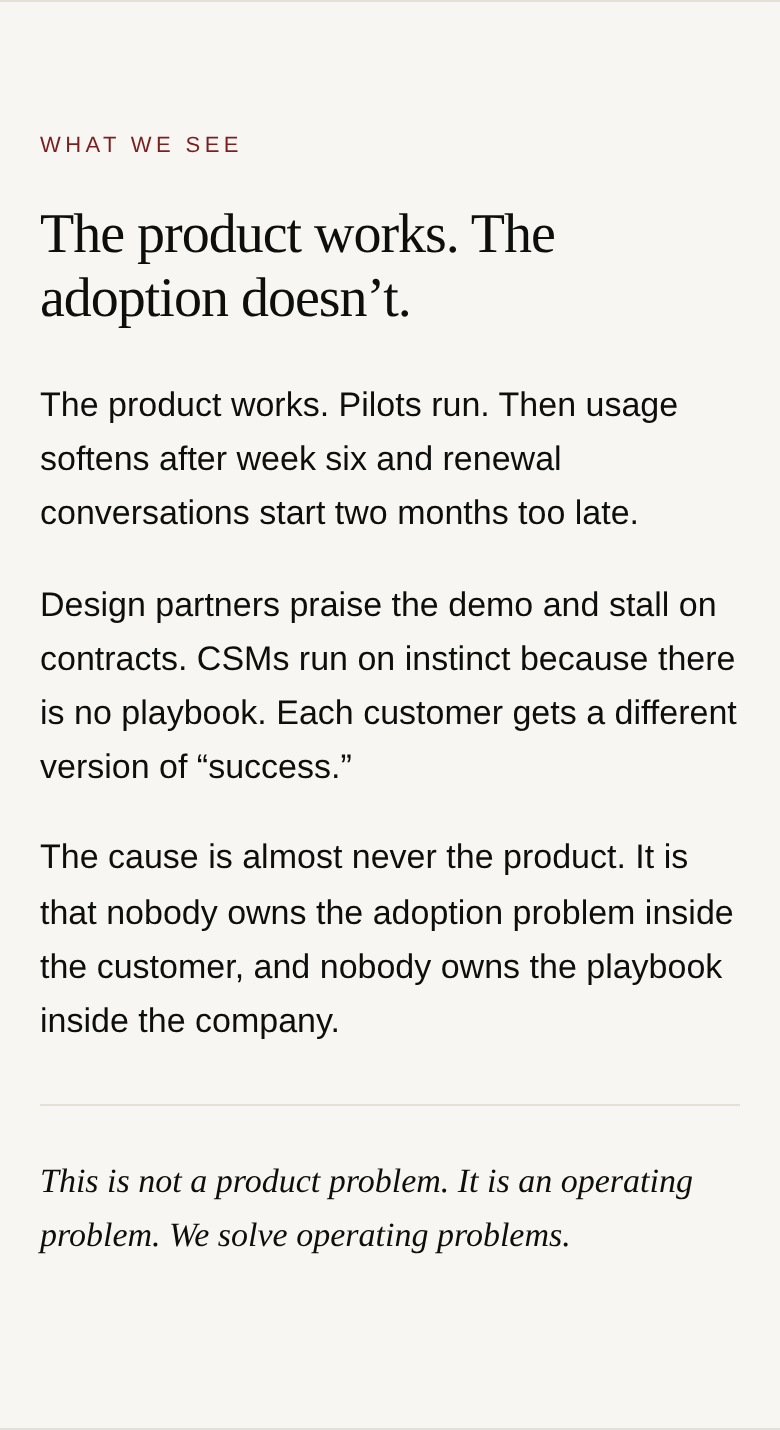
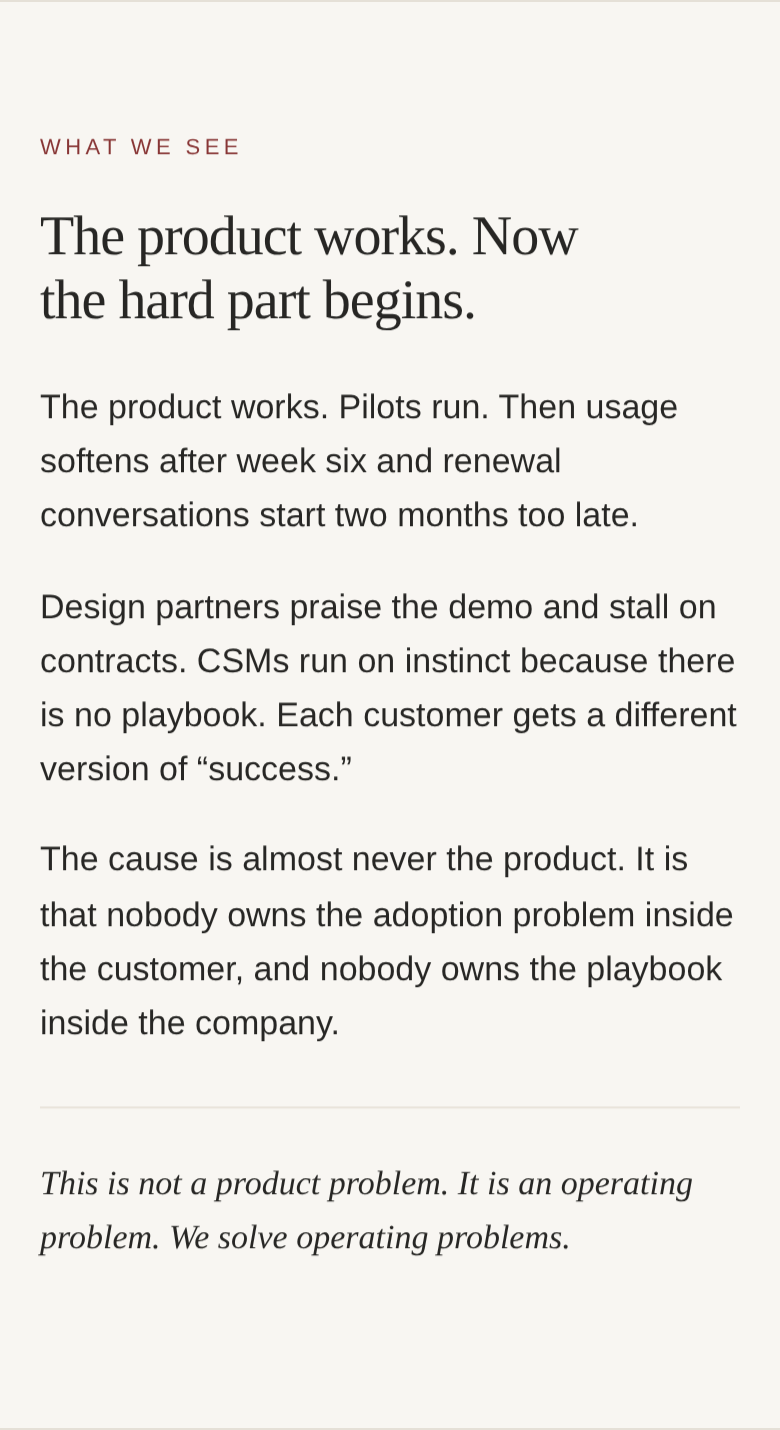
Reframe diagnosis section title
Change from 'The product works. The adoption doesn't.' to 'The product
works. Now the hard part begins.' Less defeatist; respects the founder's
investment in the product and frames adoption as the next chapter rather
than a failure.

diff --git a/index.html b/index.html
@@ -643,7 +643,7 @@
     <section class="pattern" aria-labelledby="pattern-title">
       <div class="container reveal">
         <div class="section__label">What we see</div>
-        <h2 class="section__title" id="pattern-title">The product works. The adoption doesn&rsquo;t.</h2>
+        <h2 class="section__title" id="pattern-title">The product works. Now the hard part begins.</h2>
         <p>The product works. Pilots run. Then usage softens after week six and renewal conversations start two months too late.</p>
         <p>Design partners praise the demo and stall on contracts. CSMs run on instinct because there is no playbook. Each customer gets a different version of &ldquo;success.&rdquo;</p>
         <p>The cause is almost never the product. It is that nobody owns the adoption problem inside the customer, and nobody owns the playbook inside the company.</p>
